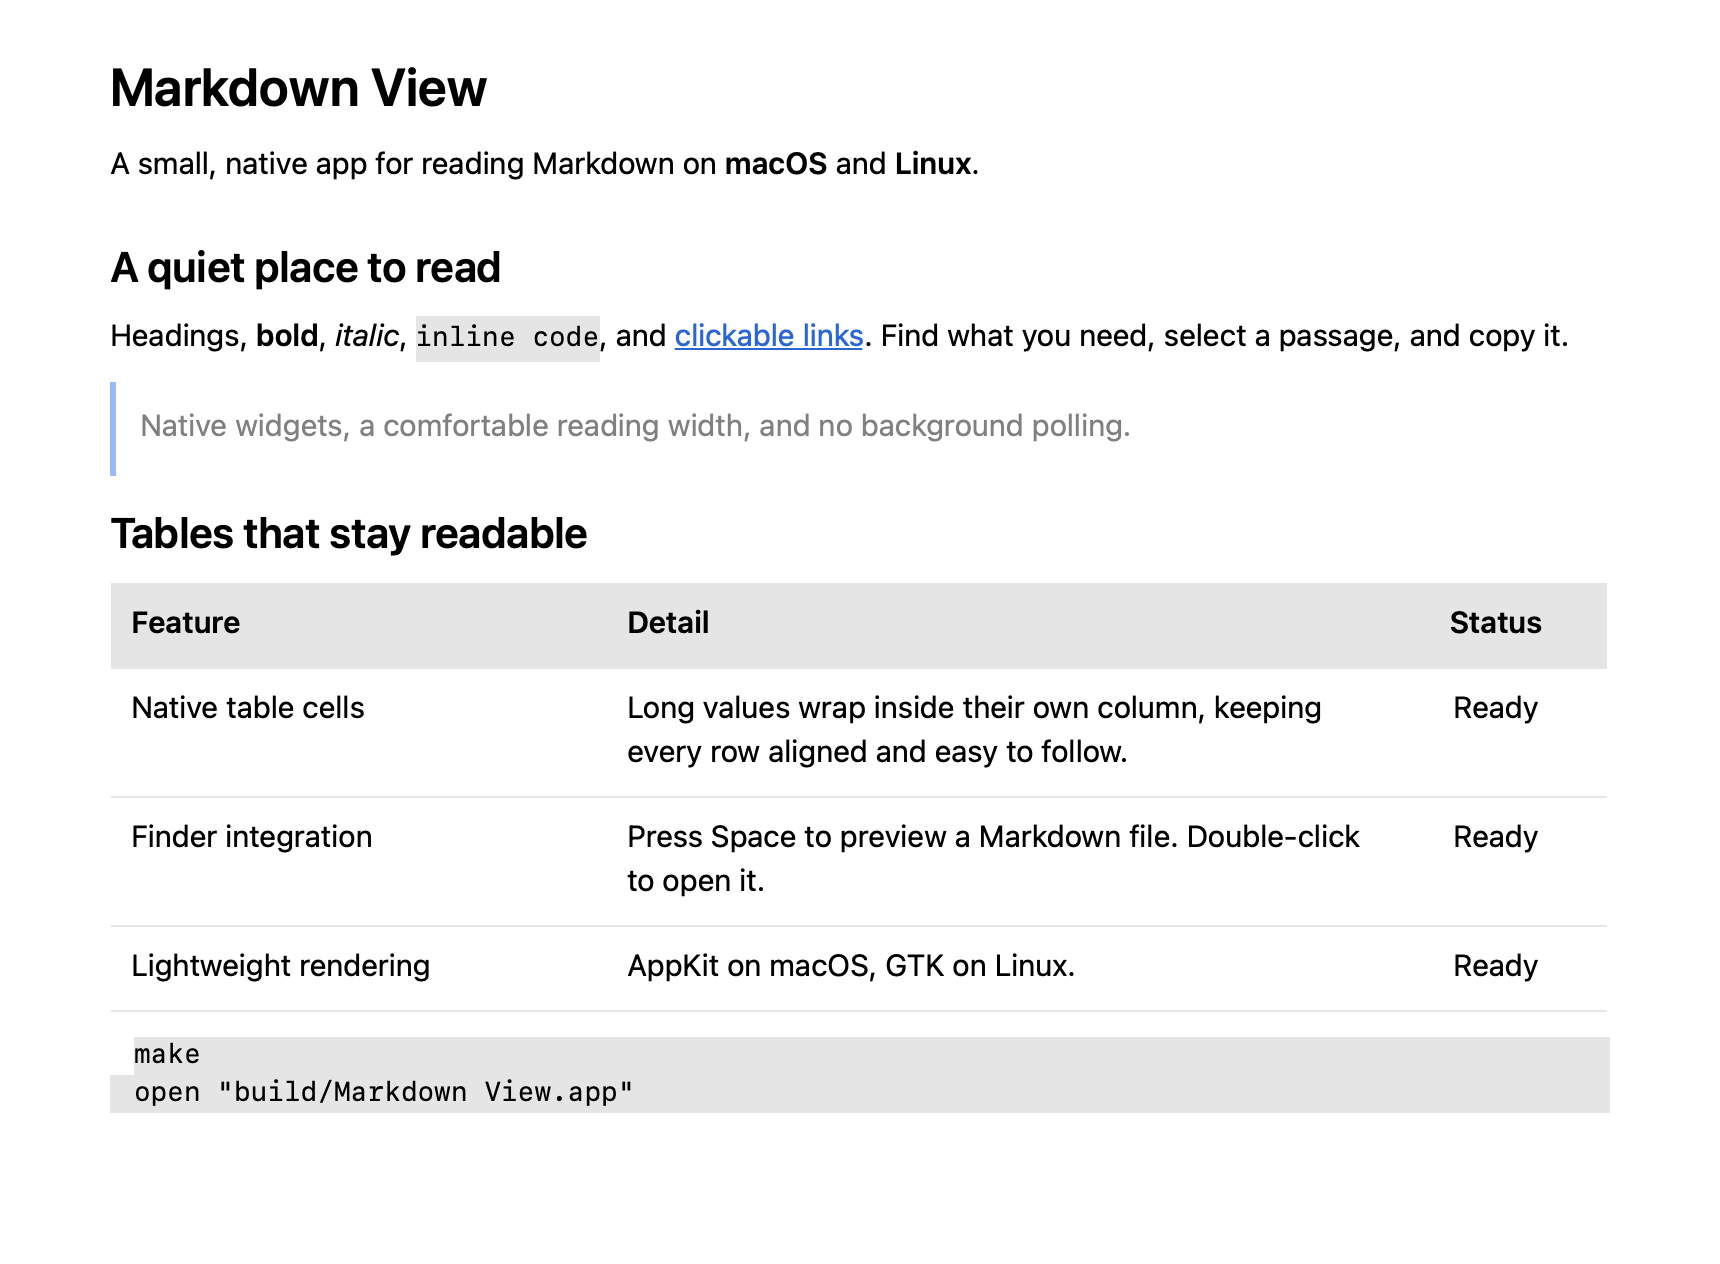
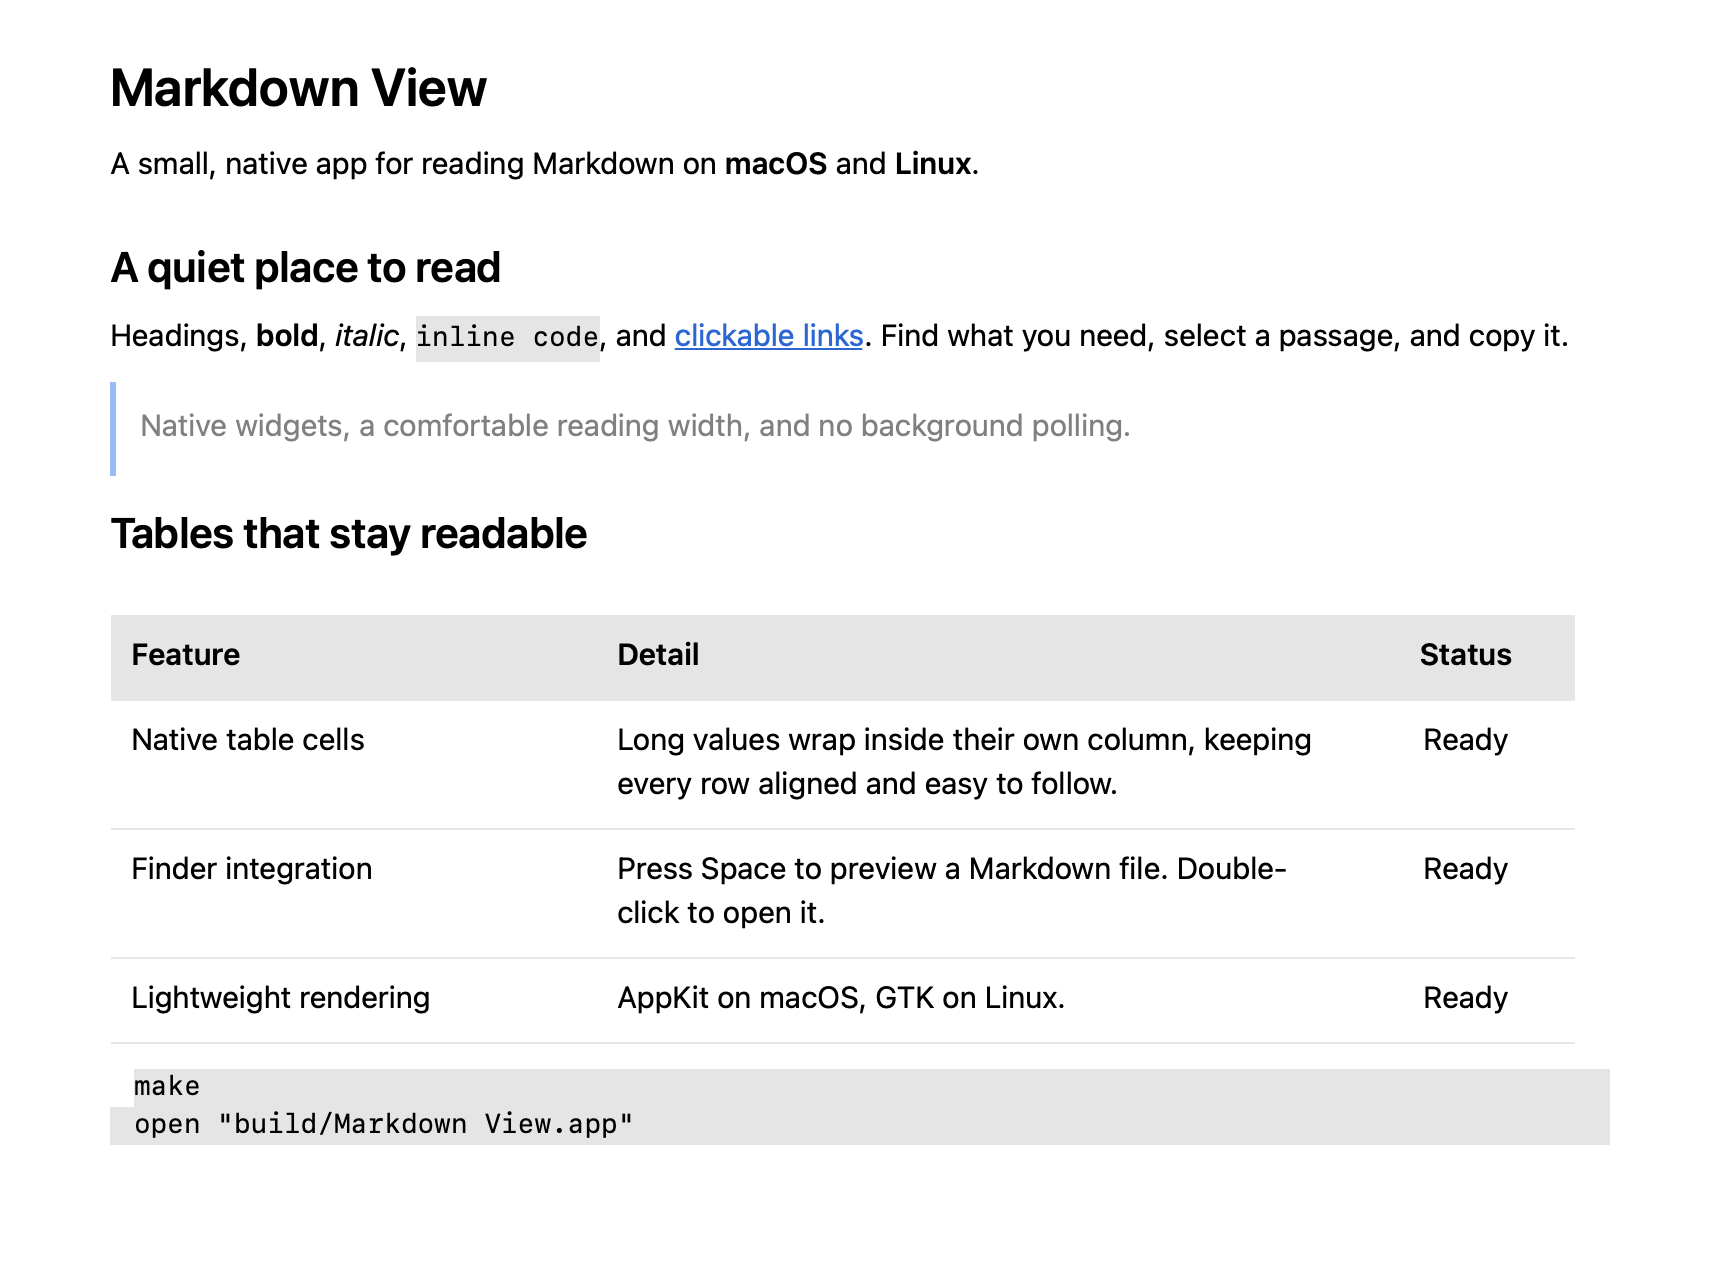
Give tables independent spacing after lists and paragraphs

Changed region(s): [[0.0616, 0.4628, 0.9552, 0.9256], [0.0616, 0.6479, 0.2157, 0.7097], [0.832, 0.6479, 0.8936, 0.7097]]

diff --git a/src/native.m b/src/native.m
@@ -37,7 +37,7 @@ static NSDictionary *attributes(NativeRender *r, const MdvStyle *style) {
     if(style->flags&MDV_ITALIC) font=[NSFont fontWithDescriptor:[font.fontDescriptor fontDescriptorWithSymbolicTraits:font.fontDescriptor.symbolicTraits|NSFontItalicTrait] size:font.pointSize]?:font;
     NSMutableParagraphStyle *p=[NSMutableParagraphStyle new];
     p.lineSpacing=mono?3:5;
-    p.paragraphSpacing=style->indent?5:10;
+    p.paragraphSpacing=style->indent?6:10;
     p.headIndent=style->indent*20; p.firstLineHeadIndent=p.headIndent;
     p.tailIndent=760; p.tabStops=@[];
     if(style->heading) { p.paragraphSpacingBefore=style->heading==1?0:16; p.paragraphSpacing=8; }
@@ -67,8 +67,10 @@ static void finishTable(NativeRender *r) {
     CGFloat sum=0,minimum=0;
     for(NSNumber *width in widths) { sum+=width.doubleValue; minimum+=MIN(width.doubleValue,120); }
     NSTextTable *table=[NSTextTable new]; table.numberOfColumns=r.columns;
-    table.layoutAlgorithm=NSTextTableFixedLayoutAlgorithm; table.collapsesBorders=YES; table.hidesEmptyCells=NO;
+    table.layoutAlgorithm=NSTextTableAutomaticLayoutAlgorithm; table.collapsesBorders=YES; table.hidesEmptyCells=NO;
     [table setContentWidth:100 type:NSTextBlockPercentageValueType];
+    [table setWidth:16 type:NSTextBlockAbsoluteValueType forLayer:NSTextBlockMargin edge:NSMinYEdge];
+    [table setWidth:8 type:NSTextBlockAbsoluteValueType forLayer:NSTextBlockMargin edge:NSMaxYEdge];
     [table setValue:minimum type:NSTextBlockAbsoluteValueType forDimension:NSTextBlockMinimumWidth];
     for(MdvCell *cell in r.cells) {
         NSTextTableBlock *block=[[NSTextTableBlock alloc] initWithTable:table startingRow:cell.row rowSpan:1 startingColumn:cell.column columnSpan:1];

diff --git a/src/linux.c b/src/linux.c
@@ -89,6 +89,7 @@ static void build_table(Viewer *v, Table *table) {
         gtk_grid_attach(GTK_GRID(grid),box,(gint)cell->column,(gint)cell->row,1,1);
     }
     table->scroll=gtk_scrolled_window_new(NULL,NULL); g_object_ref_sink(table->scroll);
+    gtk_widget_set_margin_top(table->scroll,16); gtk_widget_set_margin_bottom(table->scroll,16);
     gtk_scrolled_window_set_policy(GTK_SCROLLED_WINDOW(table->scroll),GTK_POLICY_AUTOMATIC,GTK_POLICY_NEVER);
     gtk_scrolled_window_set_propagate_natural_height(GTK_SCROLLED_WINDOW(table->scroll),TRUE);
     gtk_container_add(GTK_CONTAINER(table->scroll),grid); g_free(weights);
@@ -152,7 +153,7 @@ static int native_sink(const char *text, size_t length, const MdvStyle *style, v
     char key[96]; g_snprintf(key,sizeof key,"%u:%u:%u",style->flags,style->heading,style->indent);
     GtkTextTag *tag=g_hash_table_lookup(v->tags,key);
     if(!tag) {
-        tag=gtk_text_buffer_create_tag(v->buffer,NULL,"left-margin",(gint)(style->indent*22),"pixels-inside-wrap",5,"pixels-below-lines",style->indent?5:10,NULL);
+        tag=gtk_text_buffer_create_tag(v->buffer,NULL,"left-margin",(gint)(style->indent*22),"pixels-inside-wrap",5,"pixels-below-lines",style->indent?6:10,NULL);
         double factors[]={1,1.75,1.4,1.2,1.1,1.0,1.0};
         double size=v->font_size*(style->heading?factors[MIN(style->heading,6)]:1);
         if(style->flags&MDV_CODE) g_object_set(tag,"family","monospace","size-points",size*0.9,NULL);

diff --git a/README.md b/README.md
@@ -7,7 +7,7 @@
 
 Markdown View is a small, read-only desktop app for **macOS and Linux**. It uses native text widgets—AppKit on macOS, GTK on Linux—and a compact C parser. There is no browser engine, JavaScript runtime, editor, or background file polling.
 
-![Markdown View rendering a document with headings, emphasis, links, lists, and code on macOS](docs/screenshot.png)
+![Markdown View rendering a document with headings, emphasis, links, wrapping tables, and code on macOS](docs/screenshot.png)
 
 *The native macOS document view. Screenshot exported from the app using [this Markdown file](docs/showcase.md).*
 
@@ -53,7 +53,7 @@ The installer changes Markdown associations only; it leaves ordinary text files 
 For Debian / Ubuntu, install the downloaded package using `apt`, which also installs its GTK dependencies:
 
 ```sh
-sudo apt install ./markdown-view-0.3.0-linux-amd64.deb
+sudo apt install ./markdown-view-0.3.1-linux-amd64.deb
 ```
 
 The app appears in your desktop's application menu and Markdown files' **Open With** menu. Select it as the default in your file manager if desired.
@@ -61,7 +61,7 @@ The app appears in your desktop's application menu and Markdown files' **Open Wi
 For the tarball:
 
 ```sh
-tar -xzf markdown-view-0.3.0-linux-x86_64.tar.gz
+tar -xzf markdown-view-0.3.1-linux-x86_64.tar.gz
 ./markdown-view/bin/markdown-view README.md
 ```
 

diff --git a/tests/spacing.md b/tests/spacing.md
@@ -1,0 +1,25 @@
+# Comfortable spacing
+
+Tables should have their own breathing room, regardless of the block that comes before them.
+
+## After a list
+
+- **First:** a little space between list items.
+- **Second:** the same left edge for the next table.
+- **Third:** a generous gap before the header.
+
+| # | Question | Status | Remaining work |
+| ---: | :--- | :---: | :--- |
+| 1 | A long question that wraps onto a second line | Ready | Long text stays inside its own column, with room to breathe. |
+| 2 | A short question | Ready | Update the documentation. |
+
+This paragraph should have clear space above it, too.
+
+## After a paragraph
+
+The same table spacing should work after ordinary text.
+
+| Feature | Status |
+| --- | --- |
+| Native layout | Ready |
+| Read-only text | Ready |
